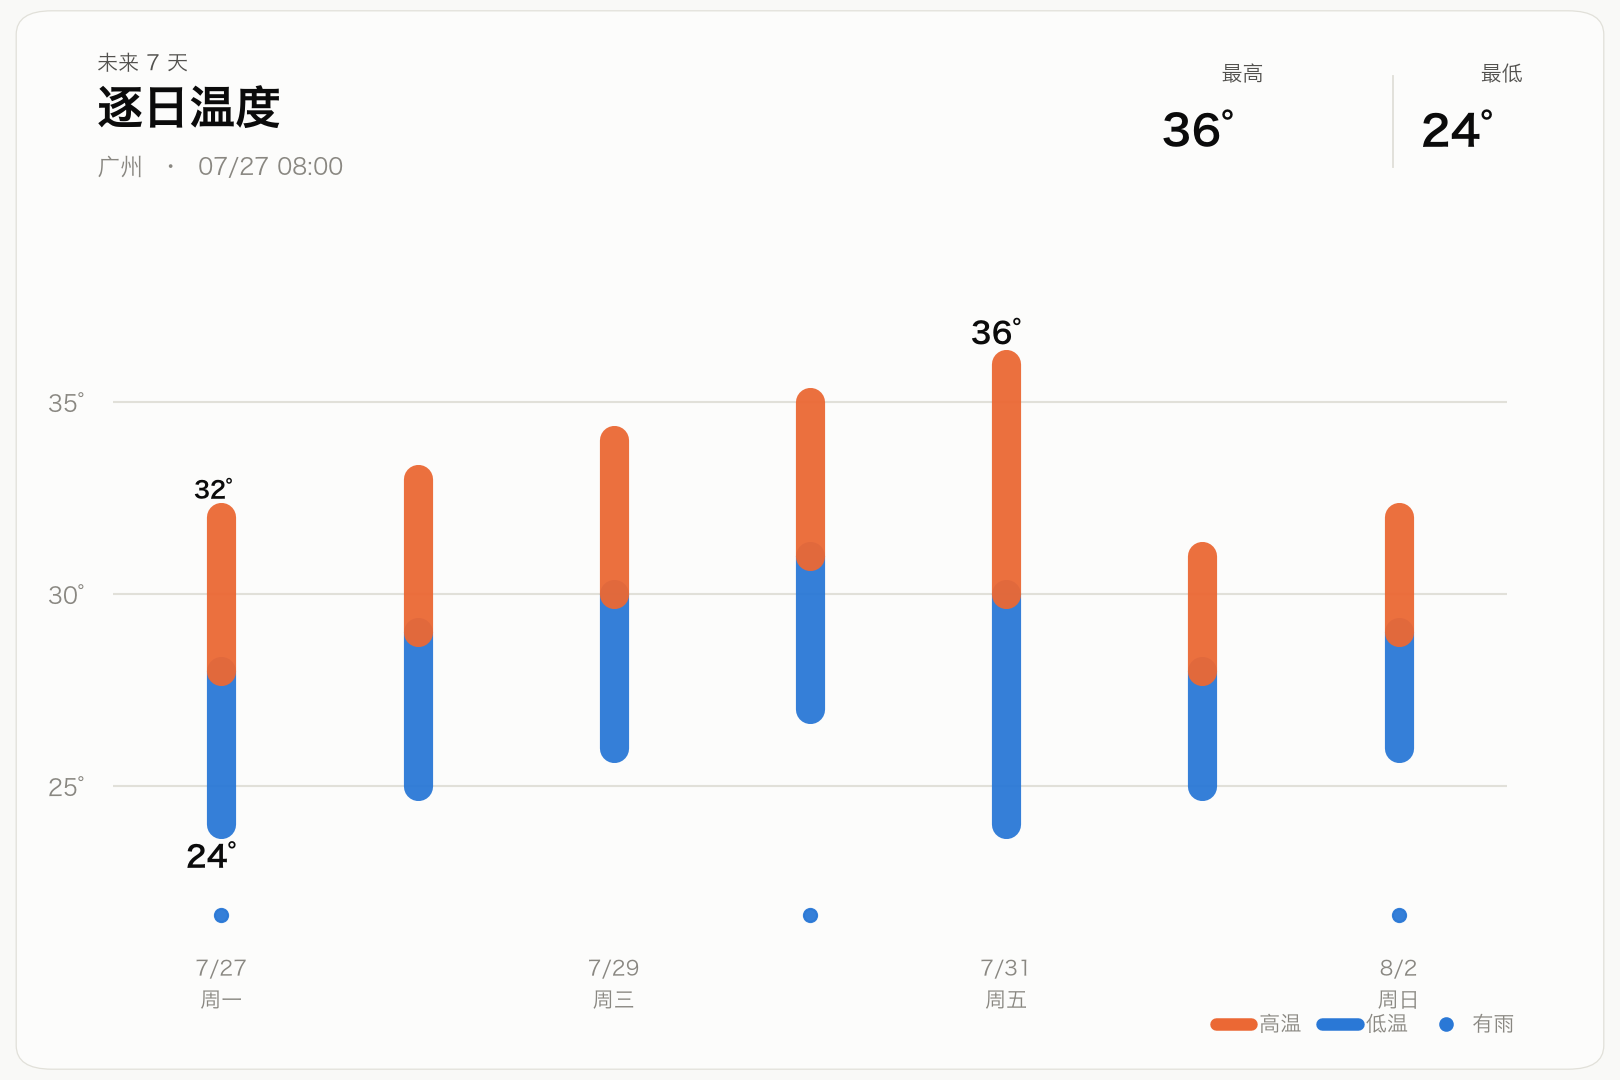
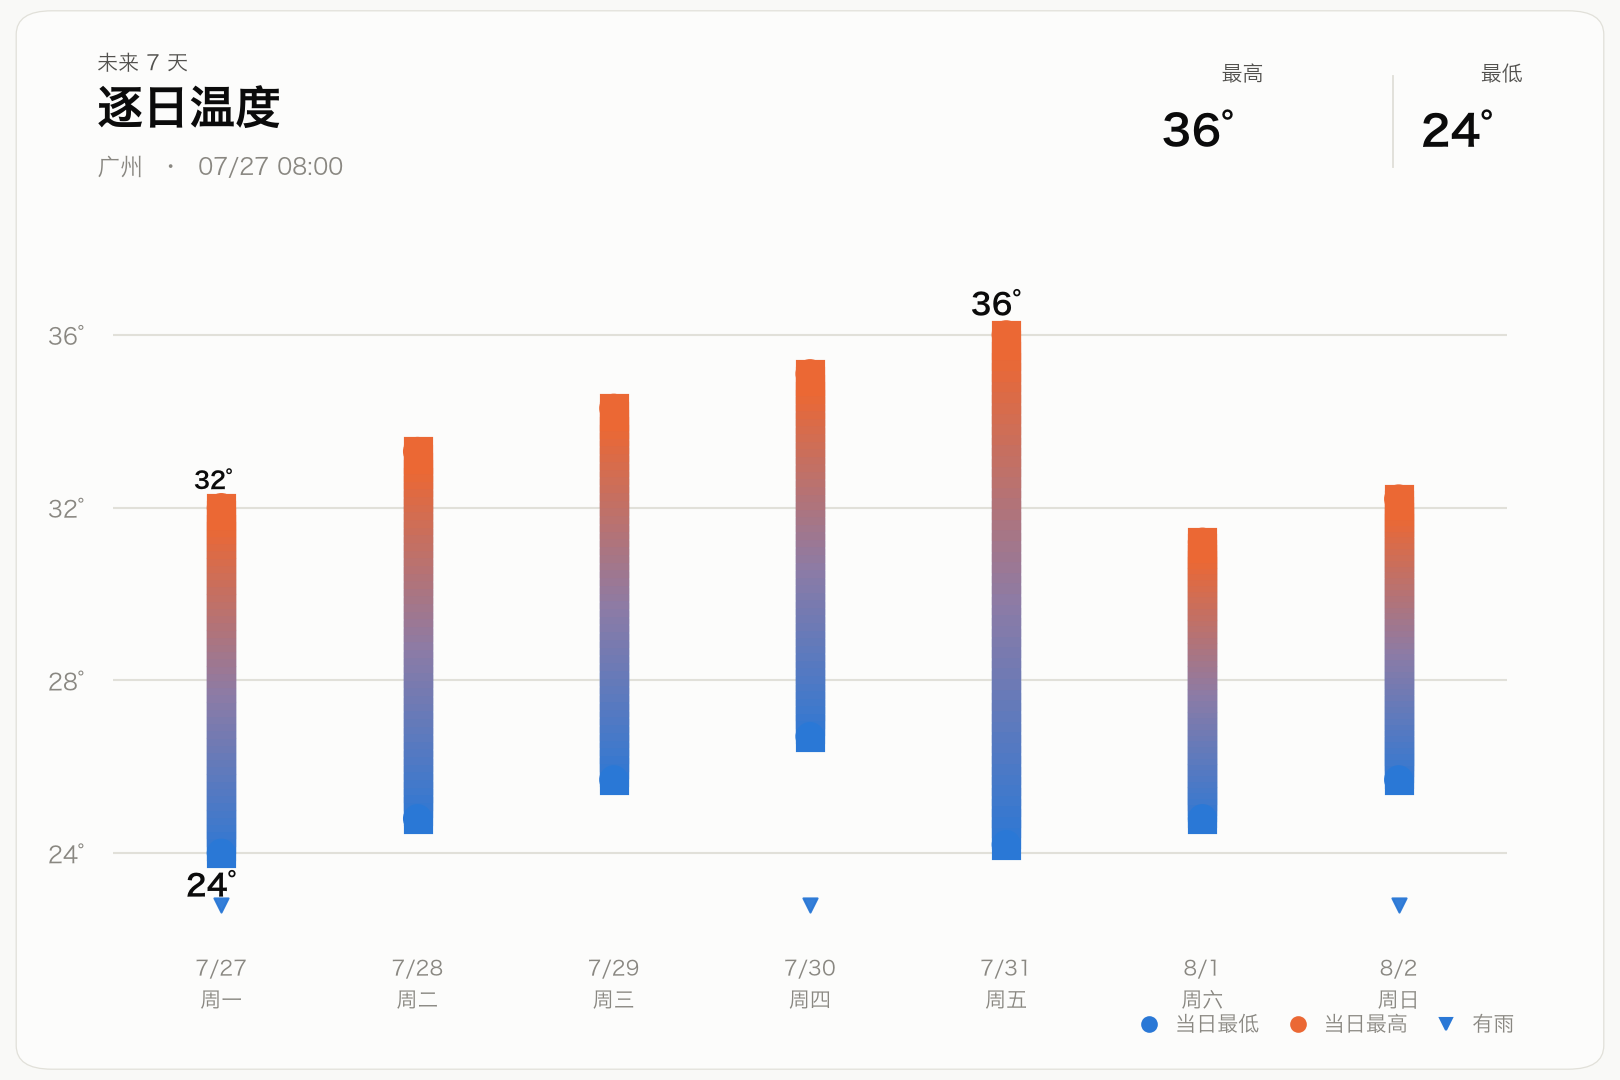
fix: 三图整改 —— 逐日去掉假分界、温度图去掉伪第二 Y 轴、降水图去重
按 dataviz 技能审查三张图。配色跑 validate_palette 全过（含 CVD 与对比度），
问题不在颜色，在编码诚实性和信息重复。

逐日温度图：
- 每根柱原来在 (low+high)/2 处硬切成蓝/橙两段，而几何中点没有任何气象
  含义，图例又写「高温/低温」，会被读成「下半段是低温、上半段是高温」。
  改为蓝→橙连续渐变（LineCollection 分段 + 两端圆头 scatter），图例改成
  端点语义「最低/最高」——端点才是数据，中间只表示区间
- 7 根柱只有 4 个日期标签（tick_step=2），中间三天对不上；≤8 天改为全标
- y 轴上下都留 22% 把图形挤到下半部，改为上下不对称
- 「有雨」原是蓝圆点，与低温端点同形同色，改为倒三角

逐小时温度图：
- 删掉底部的降雨概率柱。把 0-100% 塞进温度轴 12% 的高度是一个没有刻度的
  第二 Y 轴，压扁后 80% 和 40% 几乎一样高，读者无从判断；概率有专门的
  降水图，那里占满整个纵轴

逐小时降水图：
- 单系列不配图例框（标题 + 纵轴「概率」已说清是什么），删掉
- 图内「雨量最大 3.4mm」与标题指标「最大雨量」完全重复，且与「80%」叠成
  三层字；改为只在雨峰与概率峰不在同一根柱时标注，且不重复数值
- AXES_RAIN 宽度 0.80 是当初给右侧雨量轴留的，右轴早已去掉，恢复 0.86
  与其它卡片图一致（绘图区宽 100px）

缓存 namespace chart:v14 → v15。新增防回归测试：温度图不得调用 ax.bar、
逐日渐变必须是多段 LineCollection 而非两段实色、雨量标注的同柱/异柱行为。

不做柱顶 4px 圆角：matplotlib 位图下 4px 在实际显示尺寸几乎不可见，做成
半圆头则柱顶会超出真实值约 3%。

diff --git a/services/visualizer.py b/services/visualizer.py
@@ -7,9 +7,11 @@ import matplotlib
 from loguru import logger
 from matplotlib import font_manager
 from matplotlib.backends.backend_agg import FigureCanvasAgg
+from matplotlib.collections import LineCollection
+from matplotlib.colors import LinearSegmentedColormap
 from matplotlib.figure import Figure
 from matplotlib.lines import Line2D
-from matplotlib.patches import FancyBboxPatch, Patch
+from matplotlib.patches import FancyBboxPatch
 from matplotlib.ticker import FuncFormatter, MaxNLocator, PercentFormatter
 import numpy as np
 from scipy.interpolate import PchipInterpolator
@@ -34,8 +36,9 @@ class Visualizer:
     FIGSIZE = (10.8, 7.2)
     DPI = 150
     AXES_MAIN = [0.07, 0.13, 0.86, 0.64]
-    # 降水改为单图区 + 双 Y（概率柱 + 雨量线），不再上下两截。
-    AXES_RAIN = [0.07, 0.13, 0.80, 0.64]
+    # 降水图曾经在右侧留了一条雨量轴，现在是单轴设计（只有概率柱），
+    # 那 6% 宽度没有用处了 —— 与其它卡片图保持同一绘图区。
+    AXES_RAIN = [0.07, 0.13, 0.86, 0.64]
     FS_KICKER = 10
     FS_TITLE = 22
     FS_META = 11
@@ -958,25 +961,9 @@ class Visualizer:
         ax.yaxis.set_major_formatter(FuncFormatter(lambda value, _: f"{value:g}°"))
         ax.tick_params(axis="y", colors=cls._THEME["muted"])
 
-        # 降雨概率垫底：只回答「哪会儿可能下」，不抢气温主线。
-        pops = np.array(
-            [float(h.pop) if h.pop is not None else np.nan for h in data.hourly[:len(times)]],
-            dtype=float,
-        )
-        has_pop_context = bool(np.any(np.isfinite(pops) & (pops >= 30)))
-        if has_pop_context:
-            span = y_top - y_bottom
-            bar_heights = np.where(np.isfinite(pops), pops, 0) / 100.0 * span * 0.12
-            ax.bar(
-                x,
-                bar_heights,
-                bottom=y_bottom,
-                width=cls.BAR_WIDTH,
-                color=cls._THEME["probability"],
-                alpha=0.18,
-                edgecolor="none",
-                zorder=1.2,
-            )
+        # 这里不画降雨概率：把 0-100% 塞进温度轴 12% 的高度是一个没有刻度的
+        # 第二 Y 轴，压扁之后 80% 和 40% 几乎一样高，读者无从判断。降水有
+        # 专门的一张图，那里概率占满整个纵轴。
 
         # 体感：弱虚线，不贴数字。
         if has_feels_like:
@@ -1055,9 +1042,6 @@ class Visualizer:
                 )
             )
             labels.append("体感")
-        if has_pop_context:
-            handles.append(Patch(facecolor=cls._THEME["probability"], alpha=0.28))
-            labels.append("降雨概率")
 
         cls._add_footer(fig, "", handles, labels)
         return cls._render_figure(fig)
@@ -1230,7 +1214,8 @@ class Visualizer:
             metrics=metrics,
         )
 
-        # 单图区：左轴概率柱 + 右轴雨量线（Weathergraph 式），避免上下两截重复时间轴。
+        # 单轴：只有概率柱。雨量不占第二个 Y 轴（两个尺度的对齐点是任意的，
+        # 会让人读出并不存在的相关性），峰值雨量放在标题指标里。
         ax = fig.add_axes(cls.AXES_RAIN)
         cls._style_axis(ax)
         cls._decorate_time_axis(
@@ -1326,18 +1311,20 @@ class Visualizer:
         if precip_series is not None and np.any(np.isfinite(precip_series)):
             rain_i = int(np.nanargmax(precip_series))
             rain_val = float(precip_series[rain_i])
-            if rain_val > 0:
+            same_bar = has_probability_data and rain_i == int(np.nanargmax(probability))
+            # 雨量峰值就在概率峰值那根柱上时不标：数值已经在标题的「最大雨量」
+            # 指标里，再叠一行只会和 “80%” 挤成三层字。只有雨最大的时刻和概率
+            # 最高的时刻分开时，这个标注才带来新信息 —— 指出是哪一小时。
+            if rain_val > 0 and not same_bar:
                 if precip_style == "amount":
-                    rain_text = f"雨量最大 {cls._format_number(rain_val)}mm"
+                    rain_text = "雨量最大"
                 else:
                     rain_text = f"雨势最强 {cls._rain_rate_word(rain_val)}"
                 bar_top = probability[rain_i] if np.isfinite(probability[rain_i]) else 0.0
-                # 与概率峰值同柱时抬高避让，避免和 “80%” 叠字。
-                same_bar = has_probability_data and rain_i == int(np.nanargmax(probability))
                 ax.annotate(
                     rain_text,
                     (x[rain_i], bar_top),
-                    xytext=(0, 30 if same_bar else 10),
+                    xytext=(0, 10),
                     textcoords="offset points",
                     ha="center",
                     va="bottom",
@@ -1366,11 +1353,10 @@ class Visualizer:
                 color=cls._THEME["muted"], fontsize=cls.FS_META, zorder=7,
             )
 
-        handles = []
-        labels = []
-        if has_probability_data:
-            handles.append(Patch(facecolor=cls._THEME["probability"]))
-            labels.append("降雨概率")
+        # 只有一个系列，标题「逐小时降水」+ 纵轴的「概率」已经说清是什么，
+        # 再加一个图例框纯属噪声（dataviz：单系列不配图例）。
+        handles: list = []
+        labels: list = []
 
         footer = "柱越高，下雨概率越大"
         if np.any(missing_probability):
@@ -1418,35 +1404,56 @@ class Visualizer:
 
         data_min = float(np.min(lows))
         data_max = float(np.max(highs))
-        padding = max(2.2, (data_max - data_min) * 0.22)
-        y_lo = np.floor(data_min - padding)
-        y_hi = np.ceil(data_max + padding)
+        # 上下不对称：顶部要容纳最热日的数字标注，底部只需容纳雨点行，
+        # 两侧都留 0.22 会把图形挤到画面下半部。
+        span = max(1.0, data_max - data_min)
+        y_lo = np.floor(data_min - max(2.4, span * 0.22))
+        y_hi = np.ceil(data_max + max(1.8, span * 0.13))
         ax.set_ylim(y_lo, y_hi)
         ax.yaxis.set_major_locator(MaxNLocator(nbins=4, integer=True))
         ax.yaxis.set_major_formatter(FuncFormatter(lambda value, _: f"{value:g}°"))
         ax.tick_params(axis="y", colors=cls._THEME["muted"])
 
         # Apple 式竖向 range bar：手机上比双线填充更一眼可读。
+        # 颜色从低温端（蓝）连续过渡到高温端（橙）——刻意不做硬分界：
+        # 分界点只能取几何中点，而几何中点没有任何气象含义，画成两段实色
+        # 会被读成「下半段是低温、上半段是高温」，那是假的。
         bar_lw = 14 if len(days) <= 10 else 11 if len(days) <= 15 else 8
+        gradient = LinearSegmentedColormap.from_list(
+            "temp_range",
+            [cls._THEME["temperature_low"], "#8c7ba6", cls._THEME["temperature"]],
+        )
+        steps = 48
         for index in range(len(days)):
-            mid = (lows[index] + highs[index]) / 2.0
-            ax.plot(
-                [x[index], x[index]],
-                [lows[index], mid],
-                solid_capstyle="round",
-                linewidth=bar_lw,
-                color=cls._THEME["temperature_low"],
-                alpha=0.95,
-                zorder=4,
+            low, high = lows[index], highs[index]
+            if high <= low:
+                # 全天恒温：一条线画不出来，用一个端点圆点代替。
+                ax.scatter([x[index]], [low], s=bar_lw ** 2, color=gradient(0.5),
+                           edgecolors="none", zorder=5)
+                continue
+            edges = np.linspace(low, high, steps + 2)
+            # 相邻段重叠一格：butt cap 之间会留抗锯齿细缝，projecting 又会
+            # 伸出 lw/2 把端点圆头整个盖住（那样柱子看起来还是方头的）。
+            segments = [
+                [(x[index], edges[k]), (x[index], edges[k + 2])] for k in range(steps)
+            ]
+            ax.add_collection(
+                LineCollection(
+                    segments,
+                    colors=gradient(np.linspace(0.0, 1.0, steps)),
+                    linewidths=bar_lw,
+                    capstyle="butt",
+                    zorder=4,
+                )
             )
-            ax.plot(
+            # 圆头 = 两个端点圆点，直径正好等于条宽（scatter 的 s 是 points²）。
+            ax.scatter(
                 [x[index], x[index]],
-                [mid, highs[index]],
-                solid_capstyle="round",
-                linewidth=bar_lw,
-                color=cls._THEME["temperature"],
-                alpha=0.95,
-                zorder=4,
+                [low, high],
+                s=bar_lw ** 2,
+                c=[gradient(0.0), gradient(1.0)],
+                edgecolors="none",
+                zorder=5,
             )
 
         hottest = int(np.argmax(highs))
@@ -1498,18 +1505,20 @@ class Visualizer:
             if any(marker in texts for marker in ("雨", "雪")) or (forecast.precip or 0) > 0:
                 rainy_x.append(index)
         if rainy_x:
+            # 倒三角而不是圆点：低温端点已经是蓝圆点，同形同色会混淆。
             ax.scatter(
                 rainy_x,
-                [y_lo + (y_hi - y_lo) * 0.035] * len(rainy_x),
-                s=40,
-                marker="o",
-                color=cls._THEME["probability"],
+                # 贴着轴底走：再高一点就会撞上最冷日的「24°」标注。
+                [y_lo + (y_hi - y_lo) * 0.022] * len(rainy_x),
+                s=46,
+                marker="v",
+                color=cls._THEME["water"],
                 alpha=0.95,
                 zorder=6,
             )
 
-        # 日期刻度：约 5 个，手机可读
-        tick_step = max(1, (len(days) + 4) // 5)
+        # 一周（含 7/8 天）横向放得下全部日期；隔天标会让人对不上是哪根柱。
+        tick_step = 1 if len(days) <= 8 else max(1, (len(days) + 4) // 6)
         tick_idx = list(range(0, len(days), tick_step))
         if tick_idx[-1] != len(days) - 1:
             tick_idx.append(len(days) - 1)
@@ -1523,16 +1532,19 @@ class Visualizer:
             fontsize=cls.FS_AXIS - 1,
         )
 
+        # 端点才是数据（当日最低 / 当日最高），中间的渐变只表示区间本身。
         handles = [
-            Line2D([0], [0], color=cls._THEME["temperature"], linewidth=6, solid_capstyle="round"),
-            Line2D([0], [0], color=cls._THEME["temperature_low"], linewidth=6, solid_capstyle="round"),
+            Line2D([0], [0], color=cls._THEME["temperature_low"],
+                   marker="o", linestyle="none", markersize=7),
+            Line2D([0], [0], color=cls._THEME["temperature"],
+                   marker="o", linestyle="none", markersize=7),
         ]
-        labels = ["高温", "低温"]
+        labels = ["最低", "最高"]
         if rainy_x:
             handles.append(
                 Line2D(
-                    [0], [0], color=cls._THEME["probability"],
-                    marker="o", linestyle="none", markersize=6,
+                    [0], [0], color=cls._THEME["water"],
+                    marker="v", linestyle="none", markersize=6,
                 )
             )
             labels.append("有雨")

diff --git a/tests/test_weather_chart_labels.py b/tests/test_weather_chart_labels.py
@@ -152,13 +152,69 @@ class ChartLabelLogicTests(unittest.TestCase):
         with patch.object(Axes, "annotate", autospec=True, return_value=None) as annotate:
             Visualizer.draw_hourly_rain_chart(data)
         labels = [call.args[1] for call in annotate.call_args_list]
-        # 概率、雨量各自只标峰值。
+        # 概率只标峰值一处。
         self.assertEqual(sum(label.endswith("%") for label in labels), 1)
         self.assertIn("60%", labels)
         self.assertFalse(any(" mm" in label for label in labels))
-        # 单轴设计：雨量不再占第二坐标轴，改为柱顶一处带说明的峰值标注。
-        self.assertTrue(any("0.8" in label and "雨量" in label for label in labels))
+        # 雨最大的那一小时正好也是概率最高的那根柱：数值已经在标题的
+        # 「最大雨量」指标里，再叠一行只会和「60%」挤成三层字。
+        self.assertFalse(any("雨量" in label for label in labels))
         self.assertFalse(any("0.5" in label for label in labels))
+
+    def test_rain_chart_marks_the_wettest_hour_when_it_differs_from_peak_pop(self):
+        """雨峰与概率峰不同柱时，标注才带来新信息——指出是哪一小时。"""
+        data = make_weather().model_copy(deep=True)
+        data.hourly[2].pop = 80
+        data.hourly[2].precip = 0.1
+        data.hourly[6].pop = 30
+        data.hourly[6].precip = 4.2
+
+        with patch.object(Axes, "annotate", autospec=True, return_value=None) as annotate:
+            Visualizer.draw_hourly_rain_chart(data)
+        labels = [call.args[1] for call in annotate.call_args_list]
+        self.assertIn("雨量最大", labels)
+        # 数值仍然只出现在标题指标里，图内不重复。
+        self.assertFalse(any("4.2" in label for label in labels))
+
+    def test_hourly_temp_chart_draws_no_probability_bars(self):
+        """温度图不画降雨概率。
+
+        把 0-100% 塞进温度轴 12% 的高度，就是一个没有刻度的第二 Y 轴：
+        压扁之后 80% 和 40% 几乎一样高，读者无从判断。概率有专门的降水图。
+        """
+        data = make_weather().model_copy(deep=True)
+        for hour in data.hourly:
+            hour.pop = 90
+        with patch.object(Axes, "bar", autospec=True) as bar:
+            Visualizer.draw_hourly_temp_chart(data)
+        bar.assert_not_called()
+
+    def test_daily_chart_has_no_meaningless_colour_split(self):
+        """逐日区间条必须是连续渐变，不能在几何中点硬切两段实色。
+
+        中点 (low+high)/2 没有任何气象含义，画成两段会被读成
+        「下半段是低温、上半段是高温」——那是假的。
+        """
+        data = make_weather().model_copy(deep=True)
+        collections = []
+        original = Axes.add_collection
+
+        def capture(self, collection, *args, **kwargs):
+            collections.append(collection)
+            return original(self, collection, *args, **kwargs)
+
+        with patch.object(Axes, "add_collection", autospec=True, side_effect=capture):
+            with patch.object(Axes, "plot", autospec=True) as plot:
+                Visualizer.draw_daily_temp_chart(data)
+
+        # 区间条不再用两条 plot() 拼；渐变走 LineCollection。
+        self.assertFalse(
+            any(len(call.args) >= 3 for call in plot.call_args_list),
+            "逐日区间条不应再用实色线段拼接",
+        )
+        self.assertTrue(collections, "应当至少有一条渐变 LineCollection")
+        colours = collections[0].get_colors()
+        self.assertGreater(len(colours), 8, "渐变必须是多段，不是两段实色")
 
     def test_rain_chart_has_no_second_y_axis(self):
         """降水图必须是单轴：双 Y 轴的刻度对齐是任意的，会凭空造出相关性。
@@ -210,7 +266,7 @@ class ChartRenderingTests(unittest.TestCase):
                 self.assertEqual(struct.unpack(">II", png[16:24]), expected)
 
     def test_cache_namespace_is_bumped_for_new_rendering(self):
-        self.assertTrue(chart_cache_key(make_weather(), "temp").startswith("chart:v14:"))
+        self.assertTrue(chart_cache_key(make_weather(), "temp").startswith("chart:v15:"))
 
 
 class AutoChartDeliveryTests(unittest.IsolatedAsyncioTestCase):

diff --git a/services/chart_cache.py b/services/chart_cache.py
@@ -147,7 +147,7 @@ def chart_cache_key(weather_data: WeatherData, chart_type: str) -> str:
             separators=(",", ":"),
         ).encode("utf-8")
     ).hexdigest()[:16]
-    return f"chart:v14:{weather_data.coords}:{normalized}:{fingerprint}"
+    return f"chart:v15:{weather_data.coords}:{normalized}:{fingerprint}"
 
 
 async def remember_chart_file_id(weather_data: WeatherData, chart_type: str, message) -> None:

diff --git a/todos.md b/todos.md
@@ -1,3 +1,26 @@
+# 三图审查整改（2026-07-29）
+
+审查依据 dataviz 技能。配色本身跑 validator 全过（含 CVD），问题在编码诚实性
+与信息重复。用户选定：逐日图改渐变区间条、温度图删降雨概率柱。
+
+- [x] 1. 逐日图：`(low+high)/2` 假分界 → 蓝→橙连续渐变区间条（LineCollection
+      分段 + 两端圆头），图例改「低温 / 高温」端点语义
+- [x] 2. 逐日图：7 根柱只有 4 个日期标签（tick_step=2）→ ≤8 天时全标
+- [x] 3. 逐日图：y padding 0.22 两侧对称 → 收紧，顶部只留标注空间
+- [x] 4. 逐日图：「有雨」蓝点与低温端点同色 → 换形状（倒三角）区分
+- [x] 5. 逐小时温度图：删掉降雨概率柱（无刻度的隐藏第二 y 轴，压到 12% 高度后
+      80% 与 40% 几乎无差别），图例减到 2 项
+- [x] 6. 逐小时降水图：单系列不需要图例框 → 删图例
+- [x] 7. 逐小时降水图：图内「雨量最大 3.4mm」与 header「最大雨量」重复 →
+      仅在雨峰与概率峰不同柱时标注，且不重复数值
+- [x] 8. 缓存 namespace v14 → v15，旧图失效
+- [x] 9. 渲染三图肉眼复核 + 全量验证 + 提交
+
+不做：柱顶 4px 圆角。matplotlib 位图下 4px 在实际显示尺寸几乎不可见，
+做成半圆头则柱顶会超出真实值约 3%，得不偿失。
+
+---
+
 # 系统 emoji 全面统一为和风 custom emoji
 
 用户要求：有合适语义的一律换成已上传的 QWeather 图标包（120 个 code），
